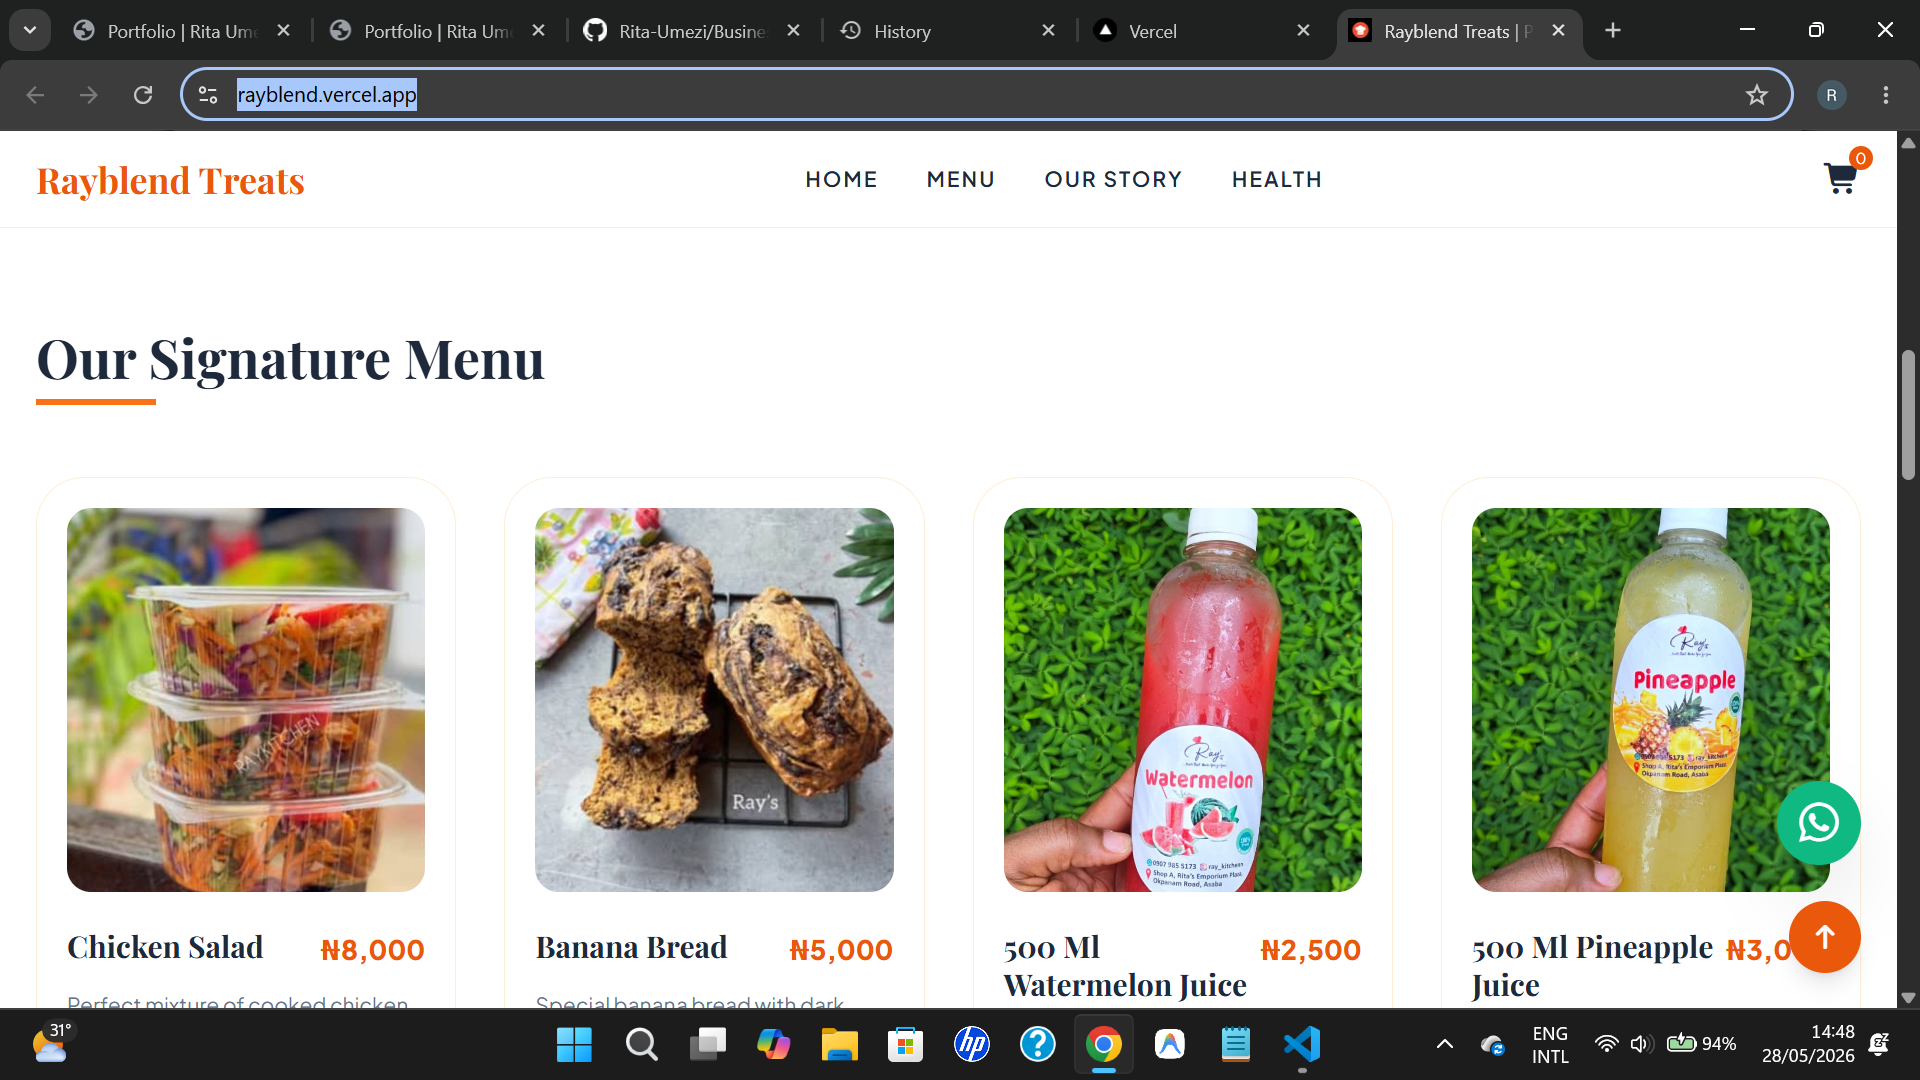
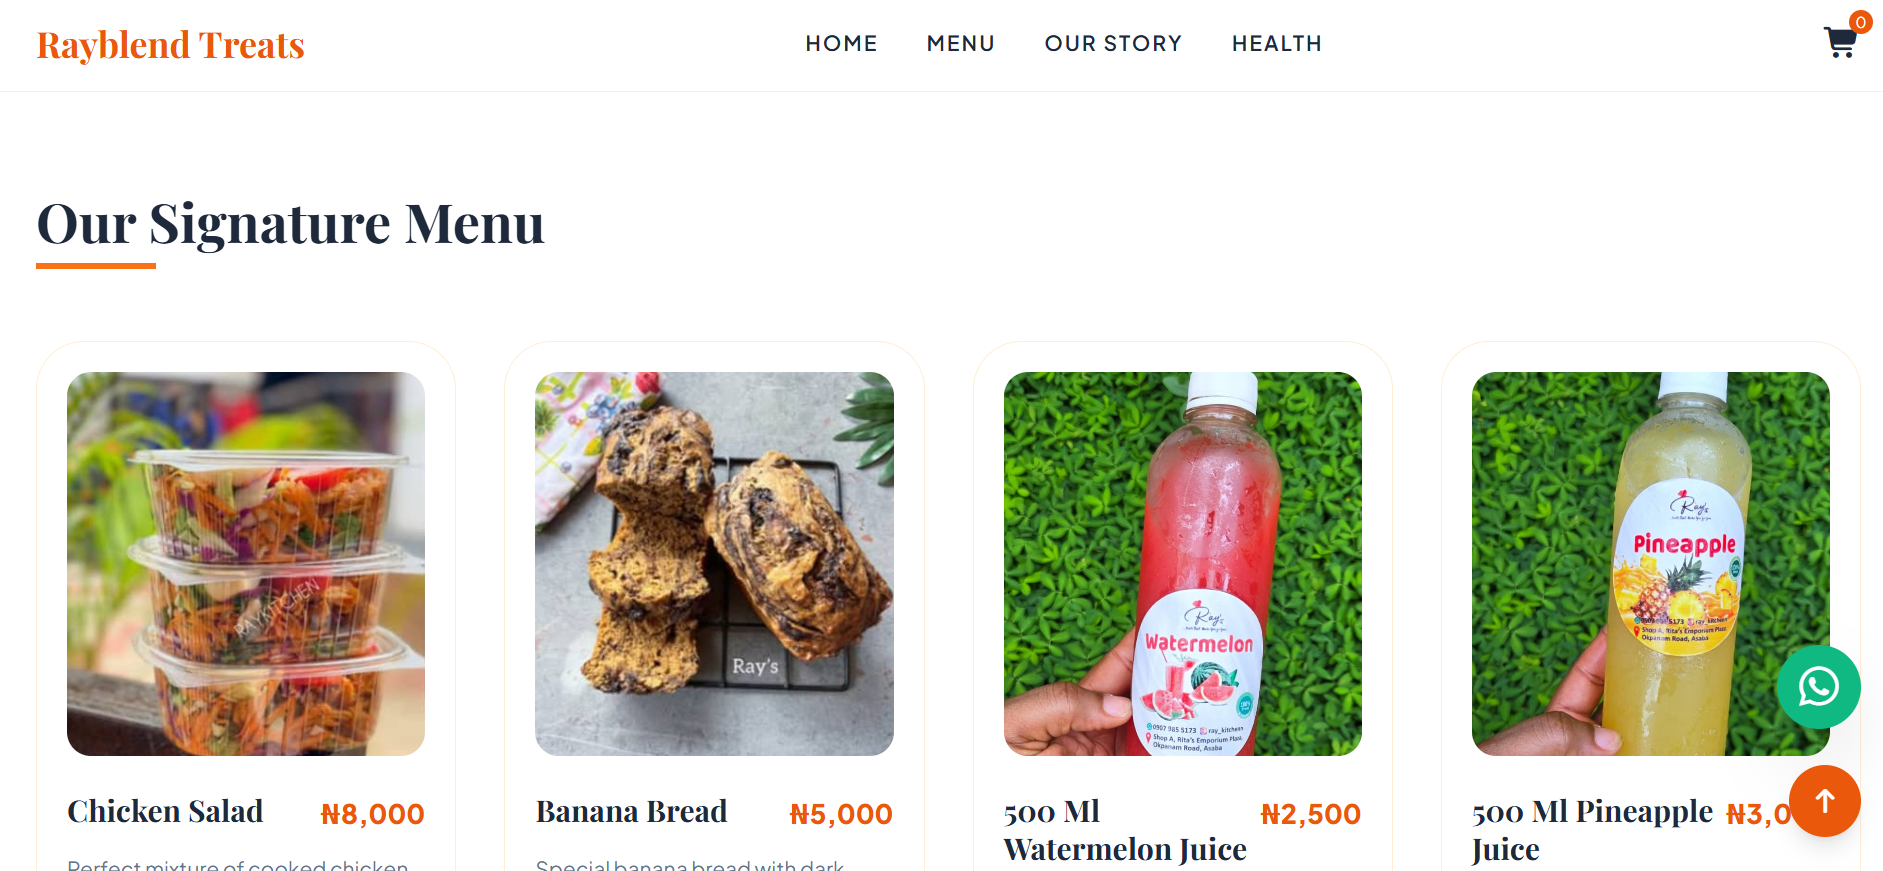
update navigation styling and replace project image

diff --git a/index.html b/index.html
@@ -27,7 +27,7 @@
 </head>
 <body class="bg-slate-900 text-slate-100 font-sans">
 
-    <nav class="fixed w-full z-50 bg-slate-900/80 backdrop-blur-md border-b border-slate-800">
+    <nav class="fixed w-full z-50 bg-slate-900 border-b border-slate-800">
         <div class="max-w-7xl mx-auto px-6 py-4 flex justify-between items-center">
             <h1 class="text-2xl font-bold text-blue-300">
                 Rita Umezinwa